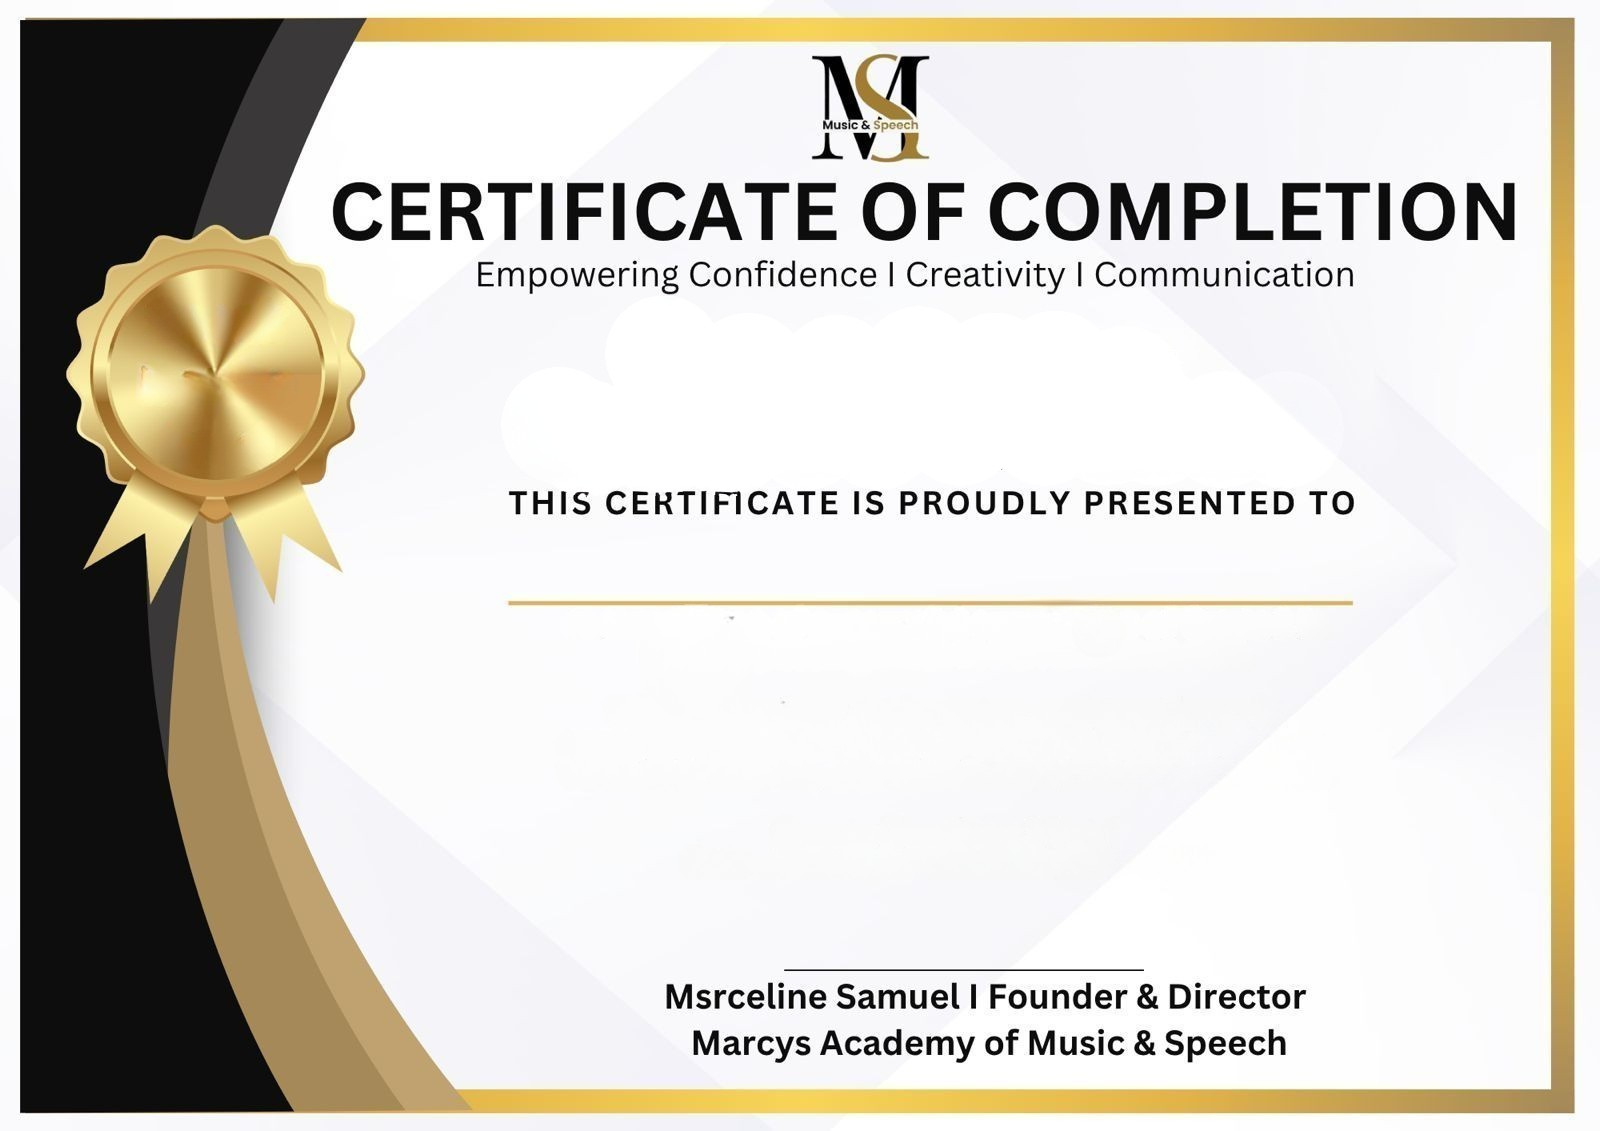
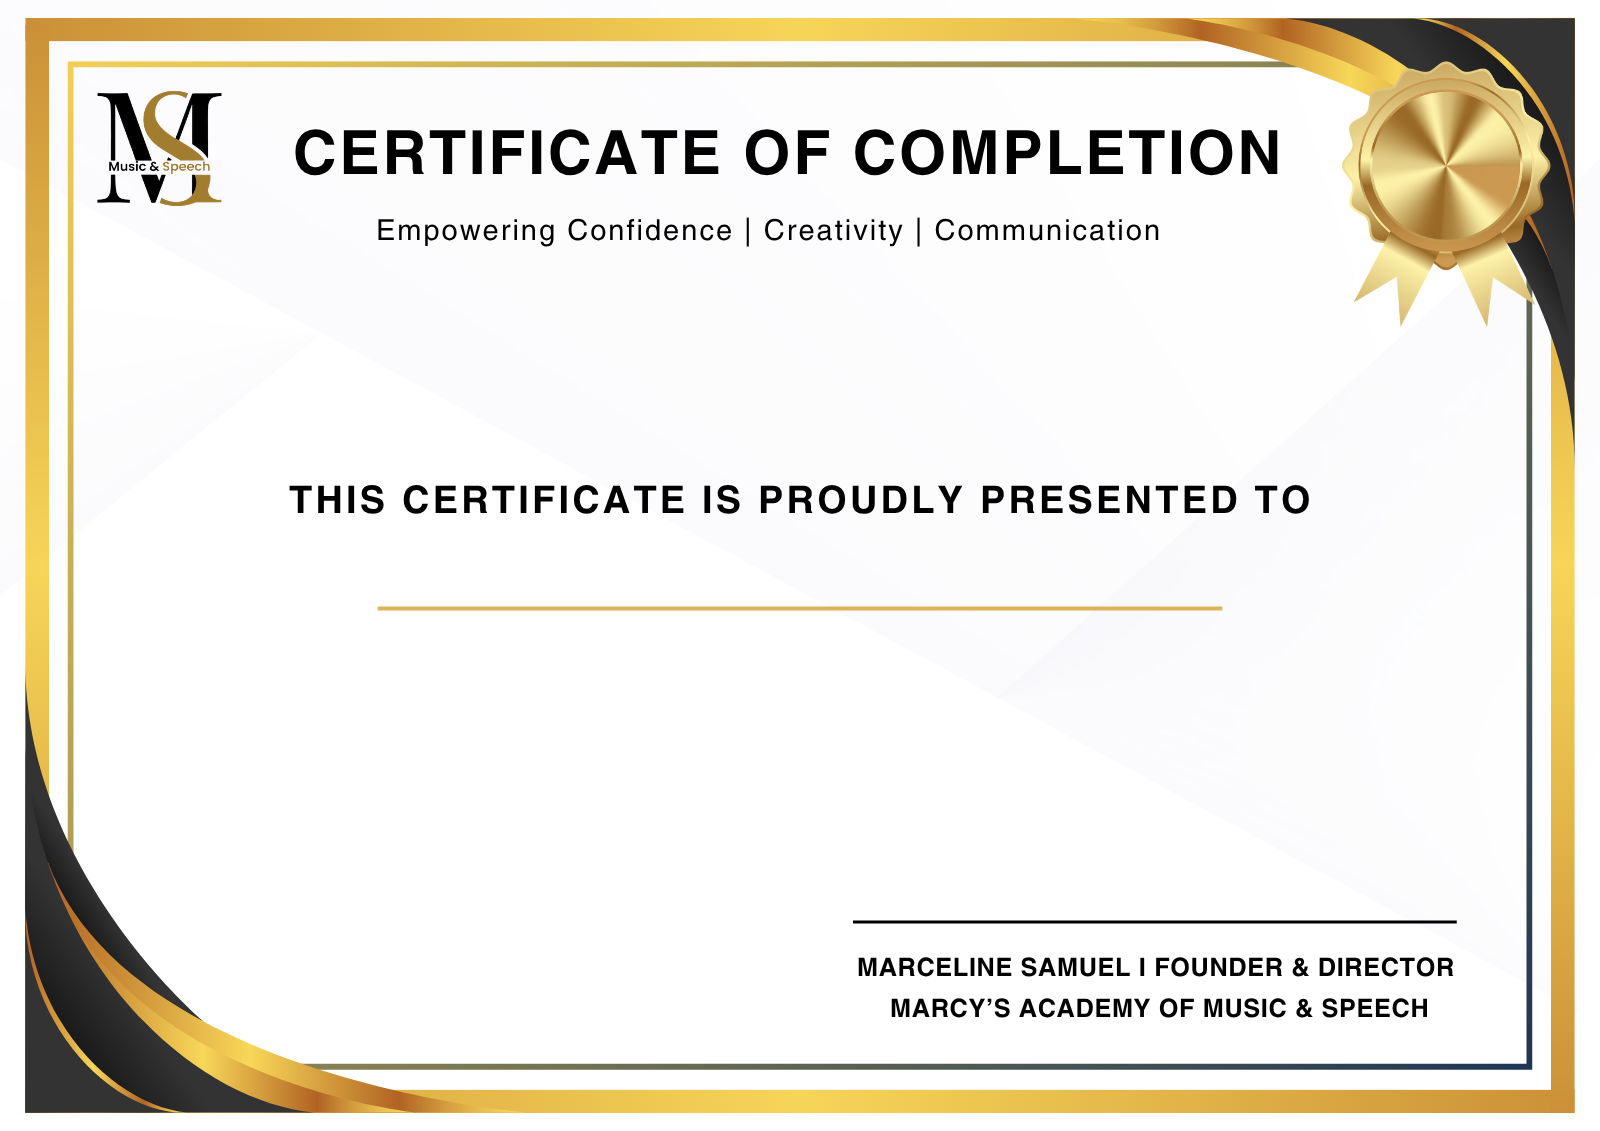
update

diff --git a/harmony-hub-main/src/pages/teacher/TeacherCertificates.tsx b/harmony-hub-main/src/pages/teacher/TeacherCertificates.tsx
@@ -50,7 +50,7 @@ const allLevels =
 
 setLevels(
   [...new Set(allLevels)]
-);
+); 
 
 
   } catch (err) {
@@ -666,8 +666,8 @@ const sendRequest = async () => {
                   className="
                     absolute
                     top-[280px]
-                    left-[600px]
-                    text-[52px]
+                    left-[500px]
+                    text-[58px]
                     font-bold
                     whitespace-nowrap
                   "
@@ -685,7 +685,7 @@ const sendRequest = async () => {
                   className="
                     absolute
                     top-[350px]
-                    left-[700px]
+                    left-[600px]
                     text-[42px]
                     font-bold
                     uppercase
@@ -705,7 +705,7 @@ const sendRequest = async () => {
                   className="
                     absolute
                     top-[460px]
-                    left-[710px]
+                    left-[600px]
                     text-[48px]
                     font-bold
                     whitespace-nowrap
@@ -724,7 +724,7 @@ const sendRequest = async () => {
                   className="
                     absolute
                     top-[540px]
-                    left-[350px]
+                    left-[250px]
                     w-[900px]
                     text-center
                     text-[24px]
@@ -752,7 +752,7 @@ const sendRequest = async () => {
 
                   </p>
 
-                  <p className="mt-6">
+                  <p className="mt-2 top-[560px] left-[250px] w-[900px] text-center text-[24px] leading-[42px]" style={{color: "#000000"}}>
 
                     {form.description}
 
@@ -766,7 +766,7 @@ const sendRequest = async () => {
                   className="
                     absolute
                     bottom-[250px]
-                    left-[680px]
+                    left-[580px]
                     text-[24px]
                   "
                   style={{
@@ -787,7 +787,7 @@ const sendRequest = async () => {
                   className="
                     absolute
                     bottom-[220px]
-                    left-[620px]
+                    left-[520px]
                     text-[24px]
                   "
                   style={{
